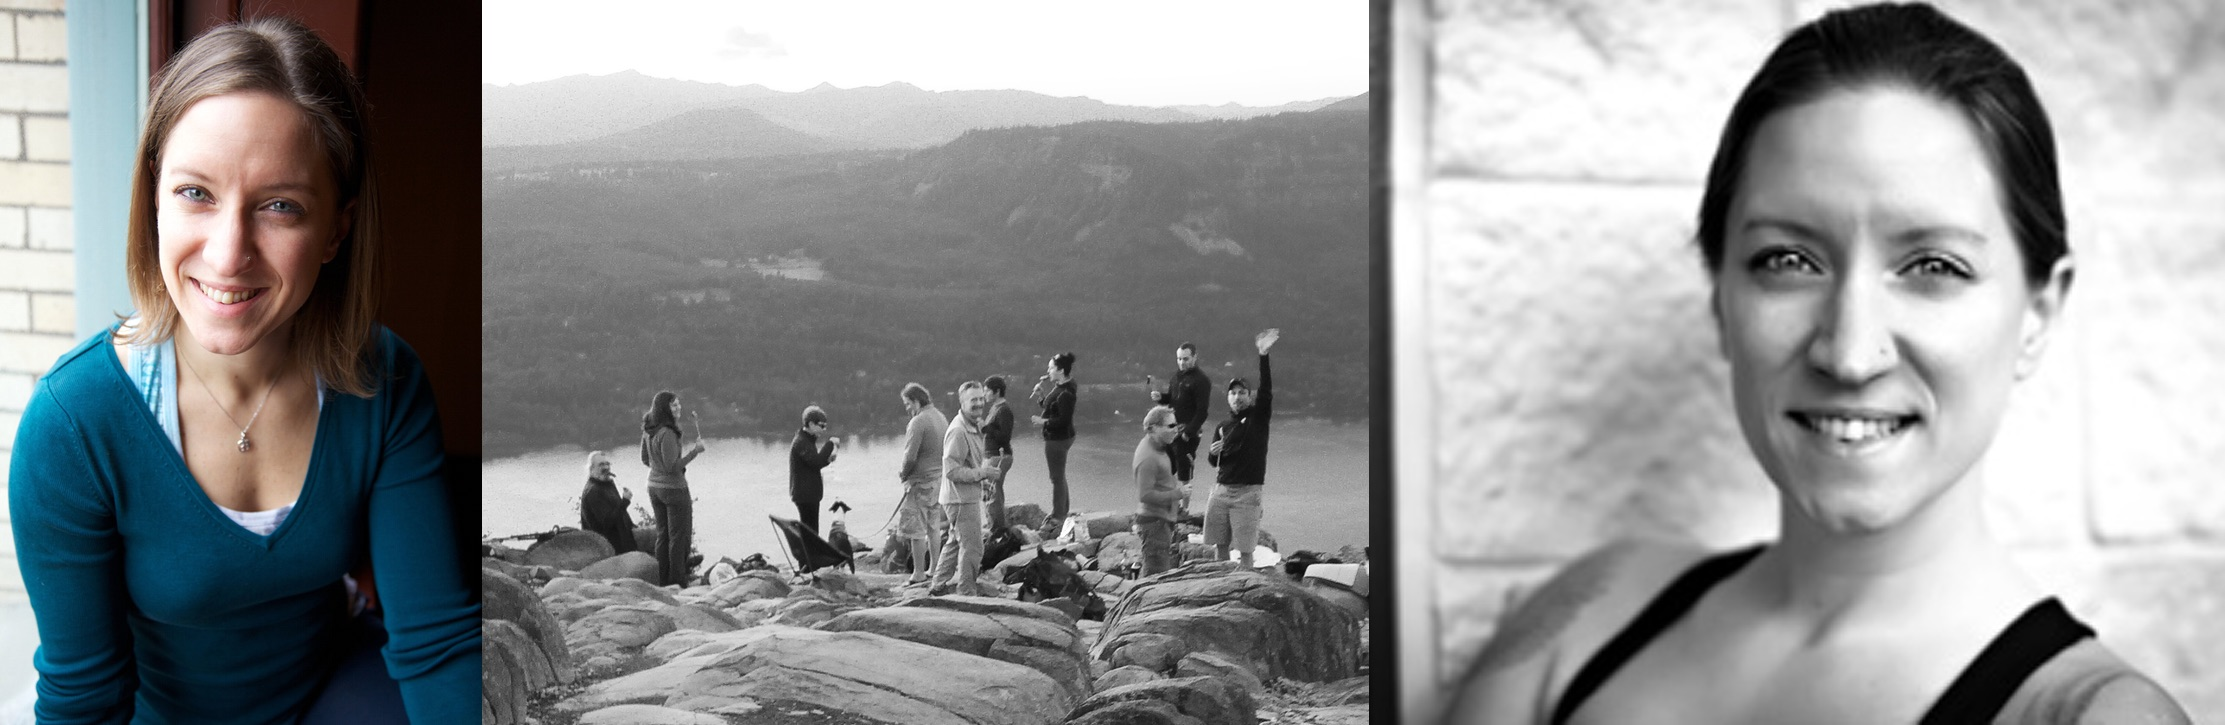
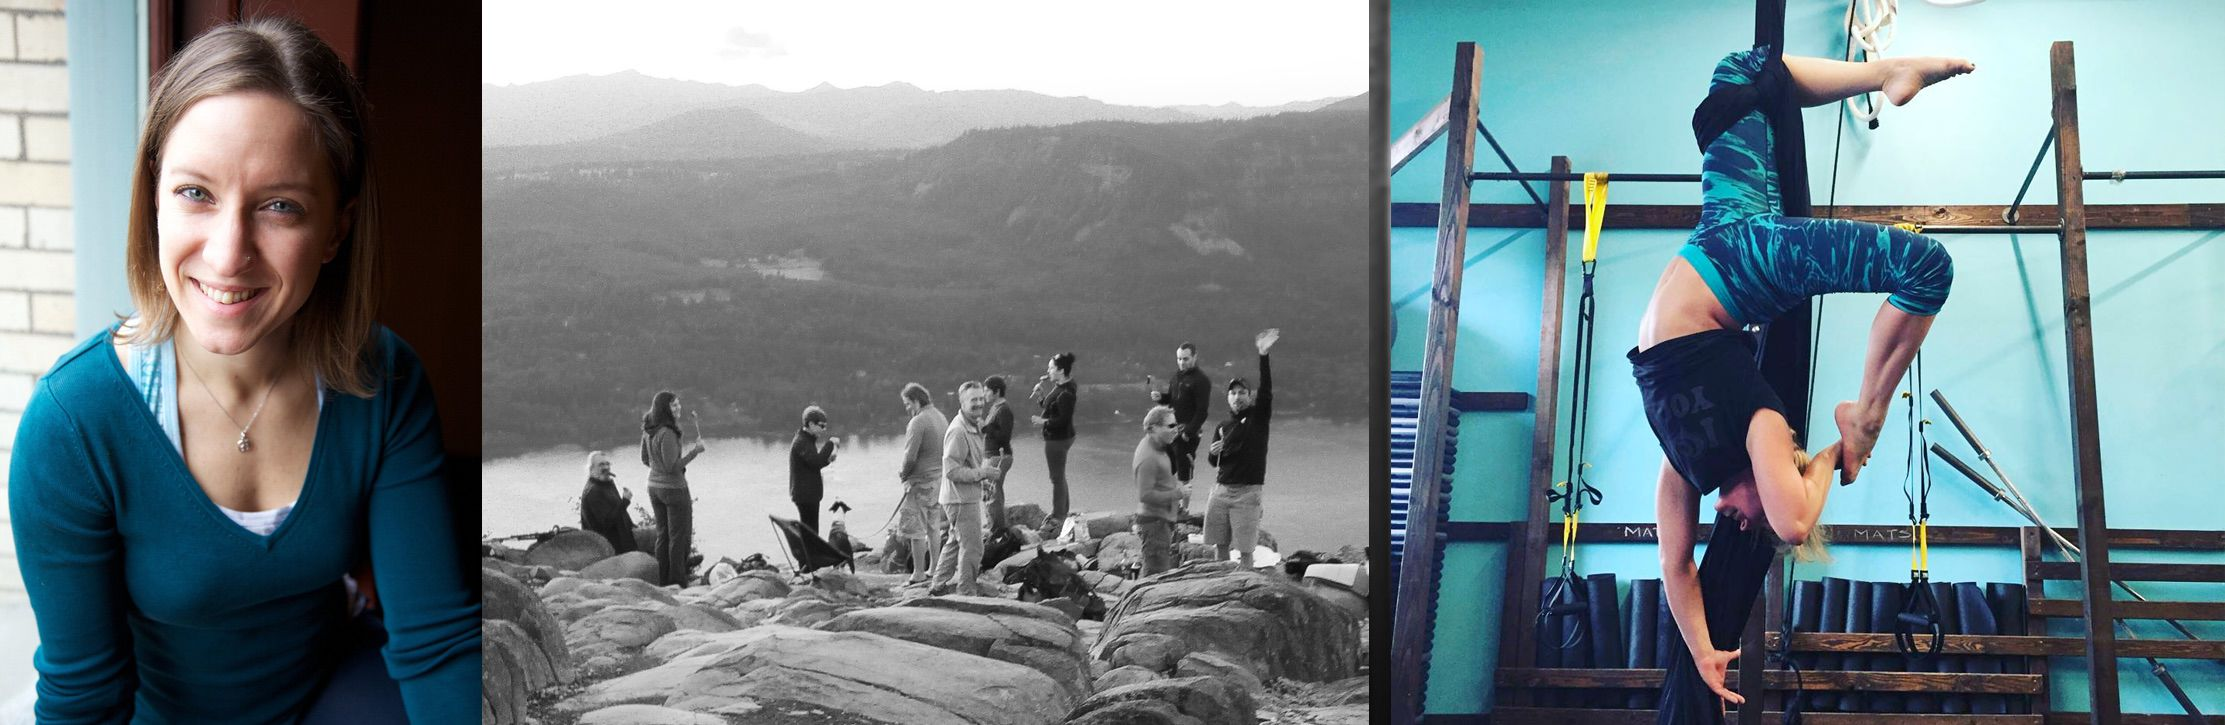
content updates

diff --git a/index.html b/index.html
@@ -347,12 +347,13 @@
                     <!-- <p>Striving to help you expand your health, happiness and vitality through fitness and yoga.</p> -->
 
 <p>Alissa Lesperance holds certifications through <strong>ACE</strong> for Personal Training, 
-    <strong>YogaFit</strong> and <strong>Schwinn Cycle</strong>. She's been helping clients achieve their personal best for over 7 years. As an avid <strong>rock climber</strong>, <strong>cyclist</strong> and <strong>yogi</strong> with a history of <strong>body building</strong>, she brings a holistic, well rounded approach to her teaching.</p>
+    <strong>YogaFit</strong> and <strong>Schwinn Cycle</strong>. She's been helping clients achieve their personal best for over 10 years. As an avid <strong>aerialist</strong>, <strong>rock climber</strong>, <strong>cyclist</strong> and <strong>yogi</strong> with a history of <strong>body building</strong>, she brings a holistic, well rounded approach to her teaching.</p>
 
 <p>She began her fitness career in 2005 on Cape Cod where she taught belly dance and competed in the Figure division of body building. In 2007 she moved to Vail, CO to pursue her love of snowboarding where she trained and taught classes at the Vail Cascade Resort. 
-She traveled to India for 3 months to study yoga and traditional dance. Living in Portland, Oregon for the past 5 years, she has found her home actively perusing her love of rock climbing, hiking, yoga and dance.</p>
+She traveled to India for 3 months to study yoga and traditional dance. Living in Portland, Oregon for the past decade, she has found her home actively perusing her love of aerial circus, rock climbing, hiking, yoga and dance.</p>
 
-<p>Fitness is about so much <strong>more than endless repetition at the gym</strong>. It is about <strong>realizing your goals</strong> and training to be <strong>your personal best</strong>. Alissa provides the support, guidance and knowledge to help you experience your <strong>full health, happiness and vitality</strong>.</p>
+<p>Fitness is about so much <strong>more than endless repetition at the gym</strong>. 
+It is about <strong>realizing your goals</strong>, finding ways to <strong>move your body</strong> that you enjoy and training to be <strong>your personal best</strong>. Alissa provides the support, guidance and knowledge to help you experience your <strong>full health, happiness and vitality</strong>.</p>
 
 <img id="imgstrip" src="images/strip-sm-alissafitness.jpg" />
 <br><br>
@@ -403,77 +404,11 @@ She traveled to India for 3 months to study yoga and traditional dance. Living i
             <div class="row">
                 <div class="col-lg-12">
                     <h1>Join a class</h1>
-                    <p>Work out better with others? Join me for a class.</p>
+                    <p><a href="#contact">Contact Alissa</a> for her current class schedule.</p>
 
-                    <div class="schedule-container">
-                    <div class="table-portrait-warning">(turn your phone or scroll to see full schedule)</div>
-                    <table class="wkschedule"><thead>
-                        <tr class="header">
-                            <th class="header">Class <small>and Location</small></th>
-                            <th>Mon</th>
-                            <th>Tues</th>
-                            <th>Wed</th>
-                            <th>Thrs</th>
-                            <th>Fri</th>
-                        </tr></thead>
-                        <tbody><tr>
-                            <th>1 hr Team Training <sup>&nbsp;+</sup><br><small>Refinery</small></th>
-                            <td><!-- Monday --> 2pm<br>6pm</td>
-                            <td><!-- Tuesday -->   5:30pm</td>
-                            <td><!-- Wednesday -->       </td>
-                            <td><!-- Thursday -->        </td>
-                            <td><!-- Friday -->    8am   </td>
-                        </tr><tr>
-                            <th>"Chill Pill" Hatha/ Restorative Yoga<br><small>Refinery <sup>*</sup></small></th>
-                            <td><!-- Monday --> </td>
-                            <td><!-- Tuesday --> 7pm</td>
-                            <td><!-- Wednesday --> </td>
-                            <td><!-- Thursday --> </td>
-                            <td><!-- Friday --> </td>
-                        </tr><tr>
-                            <th>Vinyassa Yoga for climbers<br><small>Portland Rock Gym <sup>^</sup></small></th>
-                            <td><!-- Monday --> </td>
-                            <td><!-- Tuesday --> 7:15 - <br>8:30am</td>
-                            <td><!-- Wednesday --> </td>
-                            <td><!-- Thursday --> </td>
-                            <td><!-- Friday --> </td>
-                        </tr><tr>
-                            <th>"Friendly Fire" Circuit Training<br><small>Refinery <sup>*</sup></small></th>
-                            <td><!-- Monday --> </td>
-                            <td><!-- Tuesday --> </td>
-                            <td><!-- Wednesday --> 8:30am</td>
-                            <td><!-- Thursday --> </td>
-                            <td><!-- Friday --> </td>
-                        </tr><tr>
-                            <th>"The Flow-rida" Vinyassa Yoga<br><small>Refinery <sup>*</sup></small></th>
-                            <td><!-- Monday --> </td>
-                            <td><!-- Tuesday --> </td>
-                            <td><!-- Wednesday --> </td>
-                            <td><!-- Thursday --> 9:30am</td>
-                            <td><!-- Friday --> </td>
-
-<!-- START: copy and paste this section to add a new row --><!--
-                        </tr><tr>
-                            <th></th>
-                            <th></th>
-                            <td></td>
-                            <td></td>
-                            <td></td>
-                            <td></td>
-                            <td></td>
---><!-- STOP: this is the end of a new row -->
-
-                        </tr></tbody></table>
-                    </div>
-
-                    <br>
-
-                    <p><sup>+</sup> Team trainings max out at 4 people. <a href="#contact">Contact me</a> to book ahead of time.</p>
-                    
-                    <p><sup>*</sup> All Refinery classes require a class package to be purchased through <a href="http://refineryfitnesspdx.com" target="_blank">RefineryFitnessPDX.com</a>. Receive your first class free when you register online.</p>
-
-                    <p><sup>^</sup> Portland Rock Gym yoga is free for annual members and available to others for a drop-in rate. More info at <a href="http://portlandrockgym.com/yoga" target="_blank">PortlandRockGym.com</a>.</p>
-
+                    <br> 
+                                       
+                    <p><sup>*</sup> Portland Team Fitness classes require a class package to be purchased through <a href="http://refineryfitnesspdx.com" target="_blank">PortlandTeamFitness.com</a>.</p>
 
                 </div>
             </div>
